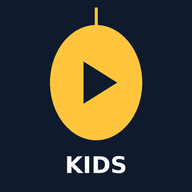
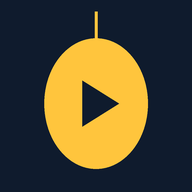
Ícone sem a palavra KIDS
Claude-Session: https://claude.ai/code/session_01UhsnjRY4hwCejsuHBtrKzE

Changed region(s): [[0.2188, 0.125, 0.7812, 0.9062], [0.4062, 0.3125, 0.625, 0.6562], [0.4688, 0.0312, 0.5312, 0.0625]]

diff --git a/index.html b/index.html
@@ -11,7 +11,7 @@
 <meta name="apple-mobile-web-app-title" content="Casulo Play">
 <meta name="apple-mobile-web-app-status-bar-style" content="black">
 <meta name="theme-color" content="#0b1422">
-<meta name="mt-build" content="20261127122708">
+<meta name="mt-build" content="20261127123204">
 <link rel="preconnect" href="https://fonts.googleapis.com">
 <link rel="stylesheet" href="https://cdn.jsdelivr.net/npm/@tabler/icons-webfont@3.19.0/dist/tabler-icons.min.css">
 <link href="https://fonts.googleapis.com/css2?family=Nunito:wght@500;700;900&display=swap" rel="stylesheet">
